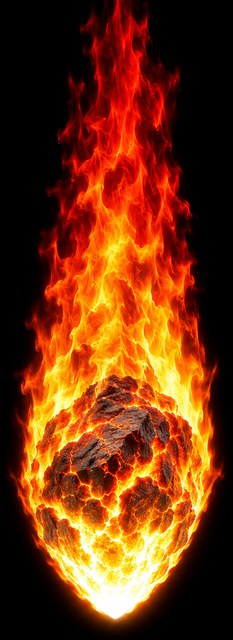
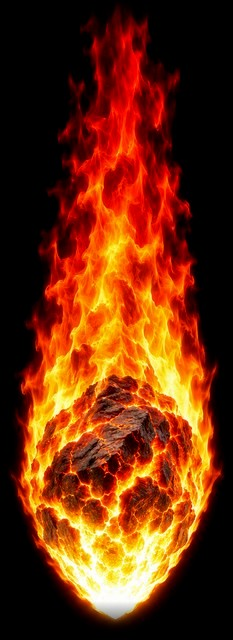
つみつみアニマル：短い画面で演出の端が切れるのを修正（炎・傷跡・帯・魔法陣・映像の位置・爆発の四角）
Claude-Session: https://claude.ai/code/session_01HLDAdxR8EuB7ryd8AUY3Hp

diff --git a/tsumi/index.html b/tsumi/index.html
@@ -146,7 +146,8 @@ const AY=()=>SHORT?(200+SHORT+1.56*AIM_TOP)/(1+AIM_TOP/1000):560, Z0=()=>(1560-A
 const OX=x=>540+(x-540)*OS(), OY=y=>1570+(y-1570)*OS(), IOX=x=>540+(x-540)/OS(), IOY=y=>1570+(y-1570)/OS();
 function ovOn(){ g.save(); if(SHORT){ const k=OS(); g.translate(540,1570); g.scale(k,k); g.translate(-540,-1570); } }
 function ovOff(){ g.restore(); }
-function present(){ const vh=VH(); if(cv.height!==vh) cv.height=vh; if(!SHORT){ vx.drawImage(ocv,0,0); return; } if(S.cut){ const sh=(S.cut.vid && !/^(necro|golem|robo|reaper|phoenix|fox|statue)$/.test(S.cut.type))?1920-BG_OFF:1920, sy0=Math.max(0,(sh-vh)*.42); vx.drawImage(ocv,0,sy0,1080,Math.min(vh,sh),0,0,1080,vh); return; } vx.drawImage(ocv,0,0,1080,200,0,0,1080,200); const ph=1370-SHORT+PANEL_S; vx.drawImage(ocv,0,200+SHORT,1080,ph,0,200,1080,ph); }
+function fullOn(){ g.save(); if(SHORT){ g.setTransform(1,0,0,1,0,0); g.translate(0,200+SHORT); g.scale(1,OS()); g.translate(0,-200); } }
+function present(){ const vh=VH(); if(cv.height!==vh) cv.height=vh; if(!SHORT){ vx.drawImage(ocv,0,0); return; } if(S.cut){ const sh=(S.cut.vid && !/^(necro|golem|robo|reaper|phoenix|fox|statue)$/.test(S.cut.type))?1920-BG_OFF:1920, sy0=Math.max(0,(sh-vh)*.16); vx.drawImage(ocv,0,sy0,1080,Math.min(vh,sh),0,0,1080,vh); return; } vx.drawImage(ocv,0,0,1080,200,0,0,1080,200); const ph=1370-SHORT+PANEL_S; vx.drawImage(ocv,0,200+SHORT,1080,ph,0,200,1080,ph); }
 const FONT = "'MPR','Hiragino Kaku Gothic ProN','Hiragino Sans','Noto Sans JP','Noto Sans CJK JP','Yu Gothic','Meiryo',sans-serif", FONTD = "'DELA',"+"'MPR','Hiragino Kaku Gothic ProN','Hiragino Sans','Noto Sans JP','Noto Sans CJK JP','Yu Gothic','Meiryo',sans-serif";
 try{ document.fonts.load("900 40px 'MPR'",'つみ'); document.fonts.load("400 40px 'DELA'",'つみ'); }catch(e){}
 
@@ -340,8 +341,8 @@ function drawSkyFx(){
 }
 function drawBand(){ const b=S.band; if(!b) return; const p=b.t/b.dur, e=p<.14?1-Math.pow(1-p/.14,3):(p>.84?1-Math.pow((p-.84)/.16,2):1), off=(p<.5?1:-1)*(1-e)*1500;
   g.save(); g.translate(540+off,820); g.rotate(-.085);
-  g.fillStyle='#0b0b12'; g.fillRect(-900,-132,1800,264); g.fillStyle=b.color; g.fillRect(-900,-118,1800,236);
-  g.save(); g.beginPath(); g.rect(-900,-118,1800,236); g.clip(); g.fillStyle='rgba(255,255,255,.28)'; for(let i=0;i<14;i++){ const x=((i*173+S.t*1400)%2000)-1000, y=-110+((i*61)%220); g.fillRect(x,y,rand(120,260),5); } g.fillStyle='rgba(0,0,0,.18)'; g.fillRect(-900,40,1800,78); g.restore();
+  g.fillStyle='#0b0b12'; g.fillRect(-2600,-132,5200,264); g.fillStyle=b.color; g.fillRect(-2600,-118,5200,236);
+  g.save(); g.beginPath(); g.rect(-2600,-118,5200,236); g.clip(); g.fillStyle='rgba(255,255,255,.28)'; for(let i=0;i<14;i++){ const x=((i*173+S.t*1400)%2000)-1000, y=-110+((i*61)%220); g.fillRect(x,y,rand(120,260),5); } g.fillStyle='rgba(0,0,0,.18)'; g.fillRect(-2600,40,5200,78); g.restore();
   txt(b.title,0,-22,128,'#fff','center','#0b0b12'); if(b.sub) txt(b.sub,0,80,44,'#fff','center','#0b0b12',900);
   g.restore(); }
 function drawCut(){ const c=S.cut; if(!c) return; const t=c.t, d=c.dur, doom=c.type==='doom', a=clamp(t/.18,0,1);
@@ -435,10 +436,10 @@ function updateSeq(dt){
 function drawSeqSky(){ const a=seqAlpha(); if(a>0){ if(!circleCv) buildCircle(); if(!dragonSky) buildDragonSky();
     g.save(); g.beginPath(); g.rect(0,200,W,1370); g.clip();
     if(dragonSky){ g.globalCompositeOperation='screen'; g.globalAlpha=a*(.5+Math.sin(S.t*2.2)*.08); g.drawImage(dragonSky,0,170+Math.sin(S.t*.8)*10); g.globalCompositeOperation='source-over'; }
-    g.globalCompositeOperation='lighter'; glow('o',CIRCLE.x,CIRCLE.y,560,a*.55); glow('w',CIRCLE.x,CIRCLE.y,150+Math.sin(S.t*9)*20,a*.75);
+    ovOn(); g.globalCompositeOperation='lighter'; glow('o',CIRCLE.x,CIRCLE.y,560,a*.55); glow('w',CIRCLE.x,CIRCLE.y,150+Math.sin(S.t*9)*20,a*.75);
     const cim = fxOK('circle') ? FX.circle : circleCv, pulse=1+Math.sin(S.t*5)*.02;
     for(const [R,sp,al] of (fxOK('circle') ? [[500,.45,1],[230,-1.1,.8]] : [[430,.5,1],[262,-1.2,1]])){ g.save(); g.translate(CIRCLE.x,CIRCLE.y); g.scale(pulse,.36*pulse); g.rotate(S.t*sp); g.globalAlpha=a*al; g.drawImage(cim,-R,-R,R*2,R*2); g.restore(); }
-    g.globalAlpha=1; g.globalCompositeOperation='source-over'; g.restore(); }
+    g.globalAlpha=1; g.globalCompositeOperation='source-over'; ovOff(); g.restore(); }
   for(const st of S.strikes){ const k=1-st.t/.28; g.save(); g.globalAlpha=k; g.strokeStyle='#fff'; g.lineWidth=8; g.lineJoin='round'; g.shadowColor='#ff3b3b'; g.shadowBlur=36; g.beginPath(); st.pts.forEach((p,i)=>{ const y=200+p[1]*.8; if(y<1560){ i?g.lineTo(p[0],y):g.moveTo(p[0],y); } }); g.stroke(); g.restore(); } }
 function drawMeteors(){
   g.save(); g.beginPath(); g.rect(0,200,W,1370); g.clip();
@@ -738,8 +739,8 @@ function drawNamazu(){ const n=S.nz; if(!n || !nzImg.naturalWidth) return; const
   const wig=Math.sin(S.t*10)*.05+(n.hit>0?-.1*n.hit/.25:0), y=1548+(1-e)*330+Math.sin(S.t*8)*8-(n.hit>0?30*n.hit/.25:0);
   g.save(); g.translate(540+n.dir*30,y); if(n.dir>0) g.scale(-1,1); g.rotate(wig); g.drawImage(nzImg,-w/2,-h/2,w,h); g.restore(); }
 function drawNamazuCut(){ const n=S.nz; if(!n || n.t>NZ.cut || !nzFace.naturalWidth) return; const p=n.t/NZ.cut, e=p<.2?1-Math.pow(1-p/.2,3):(p>.8?1-Math.pow((p-.8)/.2,2):1), bh=330*e, cy=930;
-  g.save(); g.translate(540,cy); g.rotate(-.1); g.beginPath(); g.rect(-760,-bh/2,1520,bh); g.clip();
-  const gr=g.createLinearGradient(0,-bh/2,0,bh/2); gr.addColorStop(0,'#1a0d00'); gr.addColorStop(.5,'#7a3d00'); gr.addColorStop(1,'#1a0d00'); g.fillStyle=gr; g.fillRect(-760,-bh/2,1520,bh);
+  g.save(); g.translate(540,cy); g.rotate(-.1); g.beginPath(); g.rect(-2200,-bh/2,4400,bh); g.clip();
+  const gr=g.createLinearGradient(0,-bh/2,0,bh/2); gr.addColorStop(0,'#1a0d00'); gr.addColorStop(.5,'#7a3d00'); gr.addColorStop(1,'#1a0d00'); g.fillStyle=gr; g.fillRect(-2200,-bh/2,4400,bh);
   g.strokeStyle='rgba(255,220,150,.5)'; g.lineWidth=5; for(let i=0;i<16;i++){ const y=-bh/2+((i*53)%330)*e, x=((S.t*2600+i*310)%1900)-950; g.beginPath(); g.moveTo(x,y); g.lineTo(x+260,y); g.stroke(); }
   const fw=760, fh=fw*nzFace.naturalHeight/nzFace.naturalWidth, fx=(p<.2?(1-e)*900:(p>.8?-(1-e)*900:0))+Math.sin(S.t*60)*5; g.rotate(.1); g.drawImage(nzFace,-fw/2+fx+60,-fh/2+30,fw,fh); g.restore();
   g.save(); g.translate(540,cy); g.rotate(-.1); g.fillStyle='#ffd400'; g.fillRect(-760,-bh/2-8,1520,8); g.fillRect(-760,bh/2,1520,8); g.restore(); }
@@ -772,7 +773,7 @@ function drawWinGift(){ const w=S.wg;
     else { const P=C, pk=w.done?1+.22*Math.pow(clamp(1-(w.t-P.hit)/.4,0,1),2):1+.08*clamp((w.t-P.hit+.5)/.5,0,1); g.save(); g.globalCompositeOperation='lighter'; glow('w',540,620+drop,620*pk,.45*al); glow('o',540,620+drop,760*pk,.6*al); g.globalCompositeOperation='source-over'; g.globalAlpha=al; g.translate(540,620+drop+Math.sin(S.t*2.4)*10); g.scale(pk,pk); drawSheet(phxSh,w.t*1.15,0,0,800,false); g.restore(); } }
   const sc=S.scar; if(!sc) return; const neg=sc.sign<0, rev=clamp(sc.t/.14,0,1), fade=clamp((5.2-sc.t)/1.6,0,1), n=Math.max(2,Math.ceil(sc.pts.length*rev)), pul=.8+.2*Math.sin(S.t*(neg?9:14));
   const im=neg?FXW.scar:FXW.flame, ok=im.naturalWidth>0;
-  g.save(); g.beginPath(); g.rect(-3000,200,7080,1370); g.clip(); g.globalCompositeOperation='lighter';
+  fullOn(); g.save(); g.beginPath(); g.rect(-3000,200,7080,1370); g.clip(); g.globalCompositeOperation='lighter';
   if(ok){ // 絵のエフェクト：死神の傷跡は上から下へ、不死鳥の炎は下から上へ一気に伸びて現れ、明るさをゆらしながら残る
     const rv=clamp(sc.t/(neg?.14:.32),0,1), flick=neg?.78+.22*Math.sin(S.t*9):.8+.2*Math.sin(S.t*17), jx=neg?0:Math.sin(S.t*23)*5, k=neg?1:1+.015*Math.sin(S.t*11);
     g.save(); g.beginPath(); if(neg) g.rect(0,200,W,1370*rv); else g.rect(0,200+1370*(1-rv),W,1370*rv); g.clip();
@@ -780,7 +781,7 @@ function drawWinGift(){ const w=S.wg;
     if(neg && sc.t<.34 && FXW.arc.naturalWidth){ const f=1-sc.t/.34, z=1+.1*(1-f); g.globalAlpha=f; g.drawImage(FXW.arc,540-540*z,885-685*z,W*z,1370*z); g.globalAlpha=f*.7; g.drawImage(FXW.arc,540-540*z,885-685*z,W*z,1370*z); }
     if(!neg && sc.t<.4){ g.globalAlpha=1-sc.t/.4; glow('w',540,885,900,1); } }
   else { g.lineCap='round'; g.lineJoin='round'; for(const [lw,col] of (neg?[[110,'rgba(255,0,20,'+(.16*fade*pul)+')'],[22,'rgba(255,90,80,'+(.9*fade*pul)+')'],[7,'rgba(255,255,255,'+fade+')']]:[[130,'rgba(255,150,0,'+(.2*fade*pul)+')'],[26,'rgba(255,230,120,'+(.9*fade*pul)+')'],[9,'rgba(255,255,255,'+fade+')']])){ g.strokeStyle=col; g.lineWidth=lw; g.beginPath(); for(let i=0;i<n;i++){ const pt=sc.pts[i]; i?g.lineTo(pt[0],pt[1]):g.moveTo(pt[0],pt[1]); } g.stroke(); } }
-  g.restore();
+  g.restore(); g.restore();
   if(sc.t<4.2){ const a=clamp(sc.t/.08,0,1)*clamp((4.2-sc.t)/.7,0,1), k=1+2.2*Math.pow(clamp(1-sc.t/.28,0,1),2); g.save(); g.globalAlpha=a; g.translate(540+(sc.t<.4?rand(-10,10):0),890+(sc.t<.4?rand(-10,10):0)); g.scale(k,k); const ti=neg?winTxt.m:winTxt.p; if(ti.naturalWidth){ const tw=880, th=tw*ti.naturalHeight/ti.naturalWidth; g.shadowColor=neg?'#ff0020':'#ffb000'; g.shadowBlur=45; g.drawImage(ti,-tw/2,-th/2-40,tw,th); g.shadowBlur=0; if(sc.m>1) txtD('×2',0,th/2+50,170,neg?'#ff2a3a':'#ffd400','center',neg?'#1a0006':'#5a2a00',28); } g.restore(); } }
 const dispWins=()=>{ const r=S&&S.winRoll; if(!r) return wins; const u=clamp(r.t/r.dur,0,1), e=1-Math.pow(1-u,3); return Math.round(r.from+(r.to-r.from)*e); };
 /* イカスミ（妨害小）：ダイオウイカが画面を横切って墨を吐く。3秒間、画面が墨でべったり隠れる（操作はできる） */
